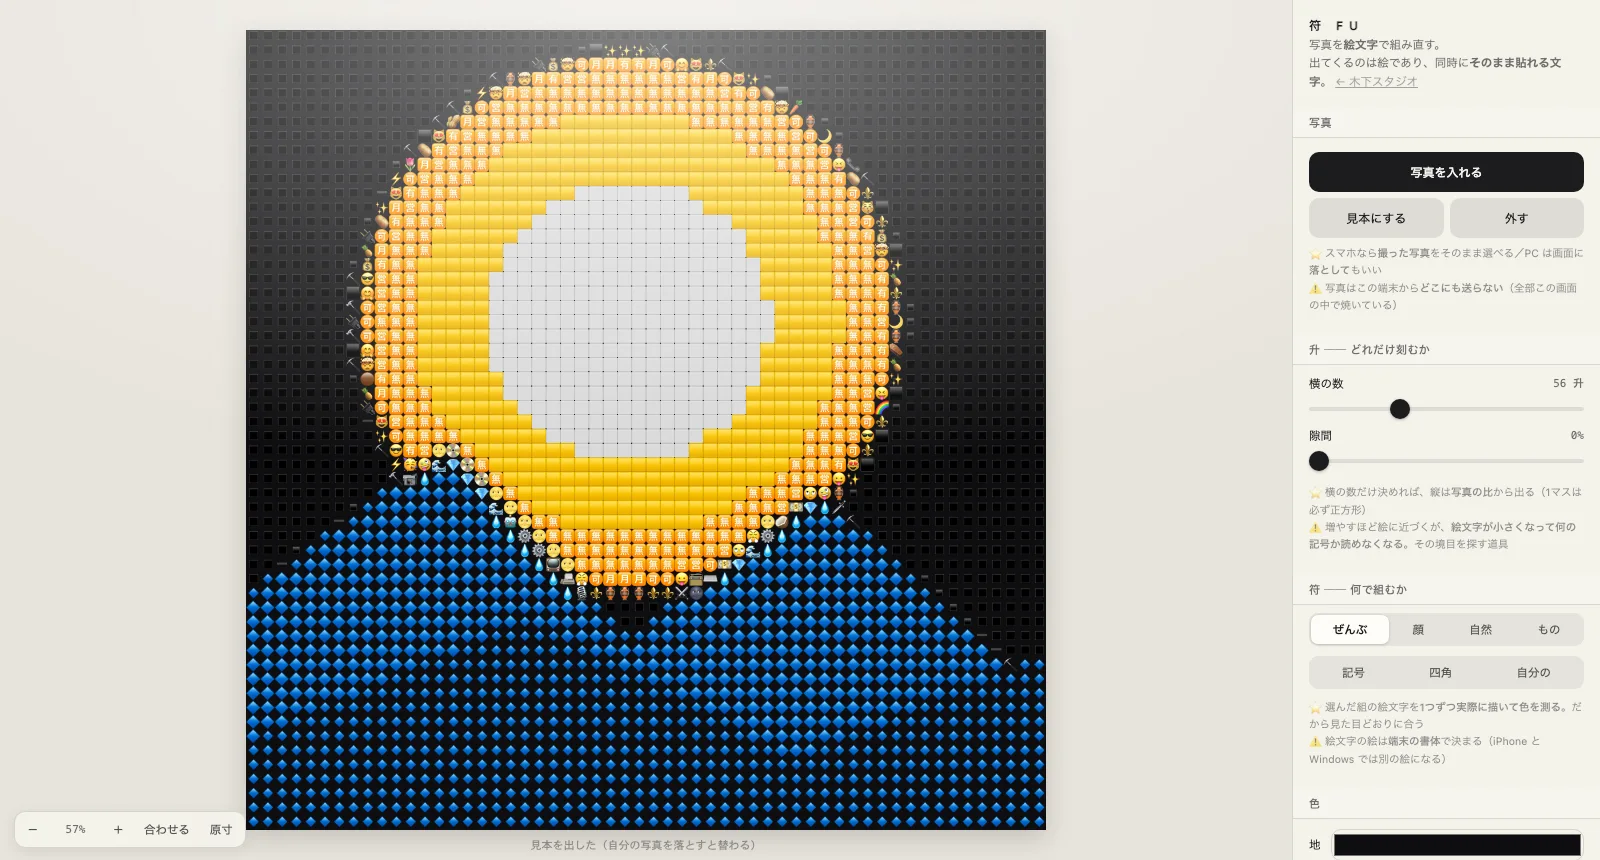
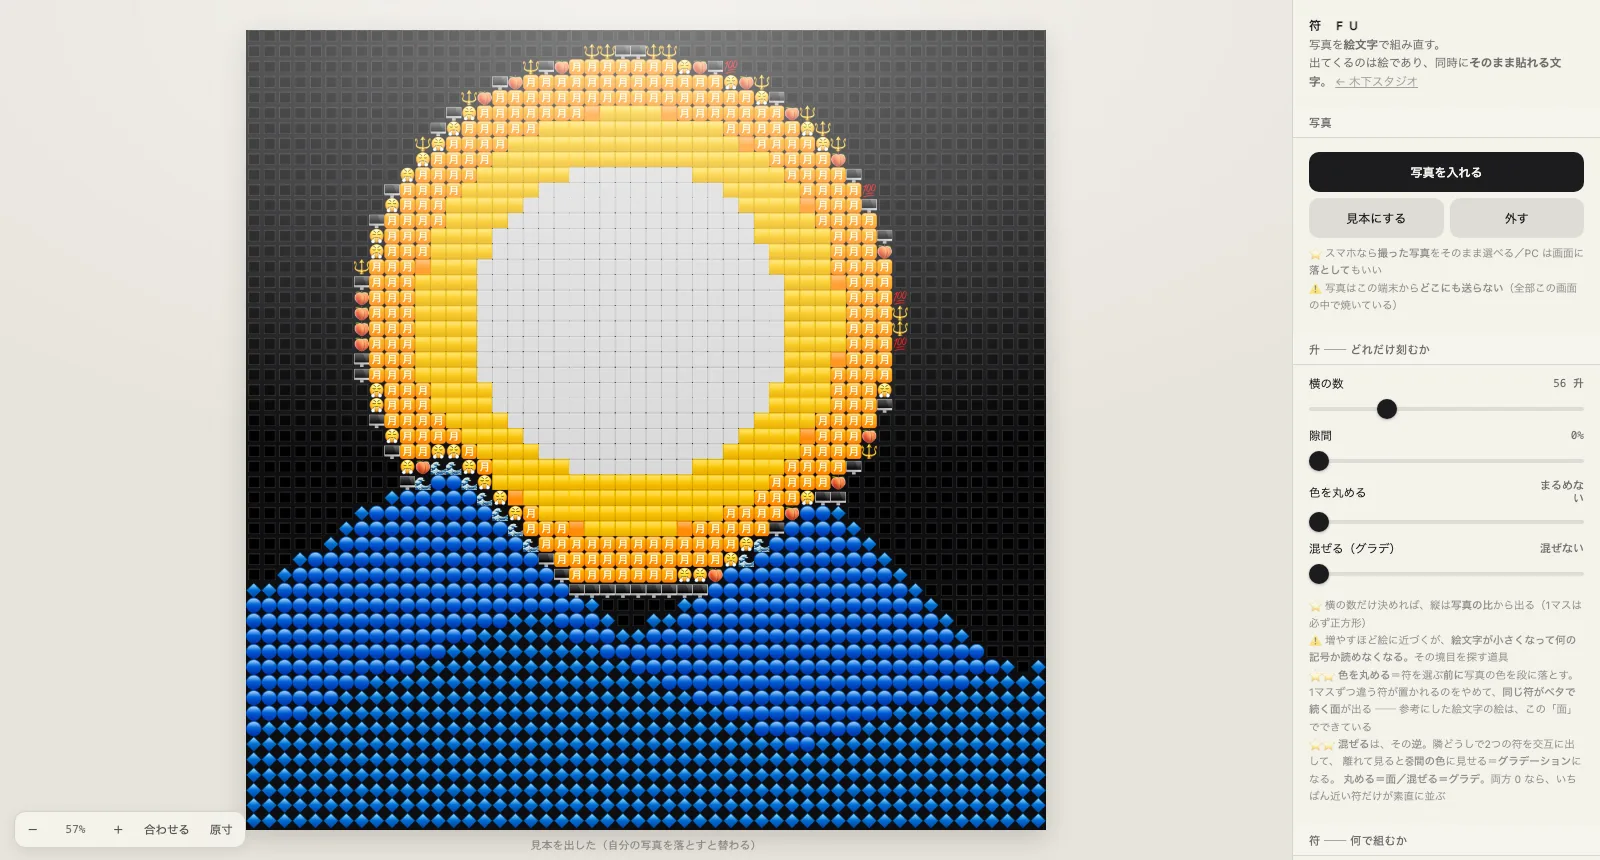
符FU：解像度を3方向に下げられるように／グラデーション風を足す
木下「いいね、解像度下げれるようにもして」
    「あとこれはMASUになってしまうのか、グラデーション風にもしてほしい」

⭐ 解像度を下げる道を3つにした
   ・升を粗く（横の数の下限 8 → 4）
   ・出す長辺の下限 600 → 300
   ・⭐⭐【色を丸める】符を選ぶ【前に】写真の色を段へ落とす。
     近い色がまとめて同じ段に入るので選ばれる符も同じになり、
     【同じ符がベタで続く面】が出る ── 参考にした絵文字の絵は、この面でできている。
     🔴 符を選んだ【後】でまとめてはいけない。それは置いた符を間引くことで、
        絵は崩れるのに面は出ない。丸めるのは色の側。

⭐⭐【混ぜる】＝グラデーション風。これは「色を丸める」の逆向き。
   🔴 符は飛び飛びの色しか持たないので、いちばん近い1つを置くだけだと
      色が変わる所で【段（バンド）】になる（空や肌でいちばん出る）。
   ⭐ 8bit機と同じ手＝符を選ぶ前に、場所で決まるぶんだけ色をずらす。
      隣どうしで違う符が選ばれ、離れて見ると中間の色に見える。
   ⚠ ずらすのは丸めた【後】。先にずらすと丸める段に吸われて何も起きない。
   ⚠ 乱数ではなく 4×4 の決まった網＝同じ写真なら毎回同じ絵。

⚠ 枡 MASU との違いを頭書きに残した：
   MASU は「マス目に【人が】絵を置いて組む」／符は「【写真が】符を決める」。
   同じ格子でも、置く人が違う＝別の道具。

実測（見本・44升）：
  素のまま     符 51種／隣が同じ 80%
  色を丸める5段 符  8種／隣が同じ 88%   ← 面が出る
  混ぜる60%    符 74種／隣が同じ 15%   ← 交互に出てグラデになる
  両方         符 41種／隣が同じ 25%   ← 註のとおり打ち消し合う
  混ぜても毎回同じ絵／いちばん粗い升 4×4／エラー 0

diff --git a/fu/index.html b/fu/index.html
@@ -247,11 +247,21 @@
   <div class="grp">
     <label class="h">升 ── どれだけ刻むか</label>
     <div class="row"><span class="n">横の数</span><output id="o_grid"></output></div>
-    <input type="range" id="r_grid" min="8" max="160" step="1">
+    <input type="range" id="r_grid" min="4" max="200" step="1">
     <div class="row"><span class="n">隙間</span><output id="o_gap"></output></div>
     <input type="range" id="r_gap" min="0" max="40" step="1">
+    <div class="row"><span class="n">色を丸める</span><output id="o_lev"></output></div>
+    <input type="range" id="r_lev" min="0" max="12" step="1">
+    <div class="row"><span class="n">混ぜる（グラデ）</span><output id="o_dit"></output></div>
+    <input type="range" id="r_dit" min="0" max="100" step="1">
     <div class="note">⭐ 横の数だけ決めれば、縦は<b>写真の比</b>から出る（1マスは必ず正方形）<br>
-      ⚠ 増やすほど絵に近づくが、<b>絵文字が小さくなって何の記号か読めなくなる</b>。その境目を探す道具</div>
+      ⚠ 増やすほど絵に近づくが、<b>絵文字が小さくなって何の記号か読めなくなる</b>。その境目を探す道具<br>
+      ⭐⭐ <b>色を丸める</b>＝符を選ぶ<b>前に</b>写真の色を段に落とす。
+      1マスずつ違う符が置かれるのをやめて、<b>同じ符がベタで続く面</b>が出る
+      ── 参考にした絵文字の絵は、この「面」でできている<br>
+      ⭐⭐ <b>混ぜる</b>は、その<b>逆</b>。隣どうしで2つの符を交互に出して、
+      離れて見ると<b>중間の色</b>に見せる＝<b>グラデーション</b>になる。
+      <b>丸める＝面／混ぜる＝グラデ</b>。両方 0 なら、いちばん近い符だけが素直に並ぶ</div>
   </div>
 
   <div class="grp">
@@ -298,7 +308,7 @@
   <div class="grp">
     <label class="h">出す</label>
     <div class="row"><span class="n">長辺</span><output id="o_long"></output></div>
-    <input type="range" id="r_long" min="600" max="4000" step="100">
+    <input type="range" id="r_long" min="300" max="4000" step="100">
     <button class="btn solid" id="b_png">PNG で出す</button>
     <div class="btns2">
       <button class="btn" id="b_txt">文字をコピー</button>
@@ -327,6 +337,8 @@
          表に色を書き並べる作りにすると、黒地に替えた瞬間に全部外れる。
    ⚠ 貌 BOU は「写真 → 升目と色数」（色を減らす）。ここは「写真 → 符」＝
       升目を【他人の絵】で埋める。入口は同じでも出口が違う。役割は重ねない。
+   ⚠ 枡 MASU は「マス目に【人が】絵を置いて組む」。ここは「【写真が】符を決める」。
+      同じ格子でも、置く人が違う＝別の道具（木下 2026-08-28 の確認）。
    ⚠ 絵文字の絵は端末の書体で決まる（iPhone と Windows では別の絵になる）。
       だから色は起動時に【その端末で】測り直す。
    ⚠ 写真はこの端末から出さない（読むのも焼くのも画面の中だけ）。
@@ -337,7 +349,7 @@ const ov = el('ov'), ox = ov.getContext('2d');
 const stat = m => { el('stat').textContent = m; };
 
 /* ── 触れるもの（1か所に持つ＝画面も PNG も文字も同じものを見る） ── */
-const P = { grid:56, gap:0, set:'all', mine:'', paper:'#0e0e10', alpha:0,
+const P = { grid:56, gap:0, lev:0, dit:0, set:'all', mine:'', paper:'#0e0e10', alpha:0,
             bri:0, sat:100, con:0, how:'rgb', vary:0, long:1600 };
 let IMG = null;
 
@@ -432,6 +444,14 @@ function tone(r, g, b){
   if(P.bri){ r += P.bri*2.55; g += P.bri*2.55; b += P.bri*2.55; }
   return [cl255(r), cl255(g), cl255(b)];
 }
+/* ⭐⭐ 混ぜる（2026-08-28 木下「グラデーション風にもしてほしい」）
+   🔴 符は【飛び飛びの色】しか持たない。いちばん近い1つを置くだけだと、
+      色が変わる所で【段（バンド）】になる ── 空や肌がいちばん出る。
+   ⭐ 8bit機と同じ手＝符を選ぶ前に、場所で決まるぶんだけ色をずらす。
+      隣どうしで違う符が選ばれ、離れて見ると【中間の色】に見える＝グラデーション。
+   ⚠ 乱数ではなく 4×4 の決まった網。だから同じ写真なら毎回同じ絵になる。
+   ⚠ これは「色を丸める」の逆向きのつまみ。両方上げると打ち消し合う。 */
+const BAYER = [0,8,2,10, 12,4,14,6, 3,11,1,9, 15,7,13,5].map(v => (v + 0.5)/16 - 0.5);
 /* ⚠ 場所だけで決まる値＝毎回同じ絵になる（乱数は使わない） */
 function hash2(x, y){
   let h = (x*374761393 + y*668265263) | 0;
@@ -480,6 +500,22 @@ function build(cols){
       const i = (y*s.cols + x)*4;
       let [r, g, b] = tone(s.d[i], s.d[i+1], s.d[i+2]);
       if(lum){ const L = r*0.299 + g*0.587 + b*0.114; r = g = b = L; }
+      /* ⭐⭐ 色を丸める（2026-08-28 木下「解像度下げれるようにもして」）
+         ⭐ 符を選ぶ【前に】色を段へ落とす。近い色がまとめて同じ段に入るので、
+            選ばれる符も同じになり【同じ符がベタで続く面】になる。
+         🔴 符を選んだ【後】でまとめてはいけない ── それは「置いた符を間引く」ことで、
+            絵は崩れるのに面は出ない。丸めるのは色の側。
+         ⚠ 貌 BOU の「色数」は出す絵の色そのものを減らす話。ここは
+            【符の選び分けの粗さ】＝役割が違う（BOU の代わりにはならない）。 */
+      if(P.lev >= 2){
+        const q = P.lev - 1;
+        r = Math.round(r/255*q)/q*255; g = Math.round(g/255*q)/q*255; b = Math.round(b/255*q)/q*255;
+      }
+      /* ⚠ ずらすのは丸めた【後】。先にずらすと、丸める段に吸われて何も起きない。 */
+      if(P.dit){
+        const o2 = BAYER[(y & 3)*4 + (x & 3)] * (P.dit/100) * 96;
+        r += o2; g += o2; b += o2;
+      }
       row[x] = pick(pal, r, g, b, x, y);
     }
     out[y] = row;
@@ -525,7 +561,7 @@ function render(){
   const ms = Math.round(performance.now() - t0);
   el('meter').textContent =
     `${LAST.cols} × ${LAST.rows} 升（符 ${(LAST.cols*LAST.rows).toLocaleString()} 個）\n`
-    + `組 ${palette().length} 種・${ms} ms\n`
+    + `組 ${palette().length} 種${P.lev>=2 ? '・色 '+P.lev+' 段' : ''}${P.dit ? '・混ぜ '+P.dit+'%' : ''}・${ms} ms\n`
     + `版面 ${Math.round(f.w)} × ${Math.round(f.h)}`;
   fitView();
 }
@@ -628,9 +664,9 @@ function loadDemo(){
 el('b_demo').onclick = loadDemo;
 
 /* ══ つまみ（表1つで回す＝足すときはここに1行）══ */
-const FMT = { grid:v=>v+' 升', gap:v=>v+'%', bri:v=>(v>0?'+':'')+v, sat:v=>v+'%',
+const FMT = { grid:v=>v+' 升', gap:v=>v+'%', lev:v=>v?v+' 段':'まるめない', dit:v=>v?v+'%':'混ぜない', bri:v=>(v>0?'+':'')+v, sat:v=>v+'%',
               con:v=>(v>0?'+':'')+v, vary:v=>v+'%', long:v=>v+'px' };
-['grid','gap','bri','sat','con','vary','long'].forEach(k => {
+['grid','gap','lev','dit','bri','sat','con','vary','long'].forEach(k => {
   const r = el('r_'+k), o = el('o_'+k);
   if(!r) return;
   r.value = P[k];
@@ -664,7 +700,7 @@ function save(){ try{ localStorage.setItem(KEY, JSON.stringify(P)); }catch(_){} 
 (function load(){
   let o = null; try{ o = JSON.parse(localStorage.getItem(KEY)); }catch(_){}
   if(o) Object.assign(P, o);
-  ['grid','gap','bri','sat','con','vary','long'].forEach(k => {
+  ['grid','gap','lev','dit','bri','sat','con','vary','long'].forEach(k => {
     const r = el('r_'+k), out = el('o_'+k);
     if(r){ r.value = P[k]; if(out) out.textContent = (FMT[k] || String)(+r.value); }
   });
